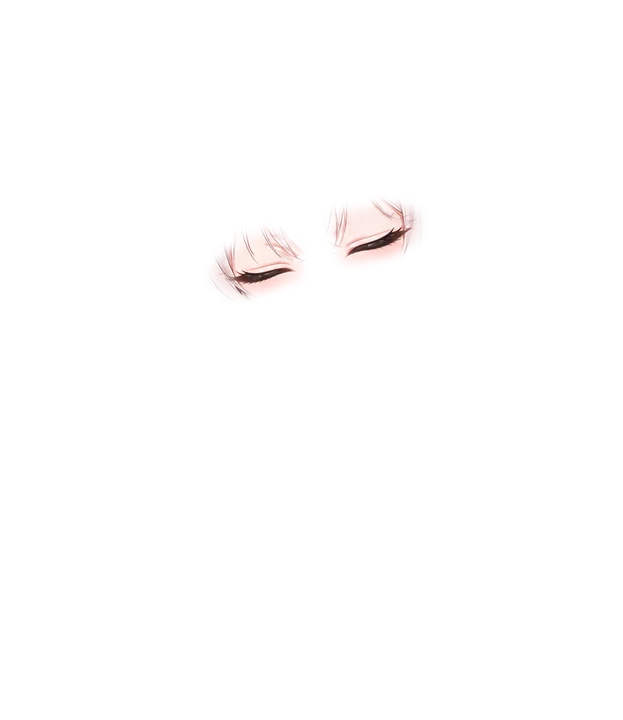
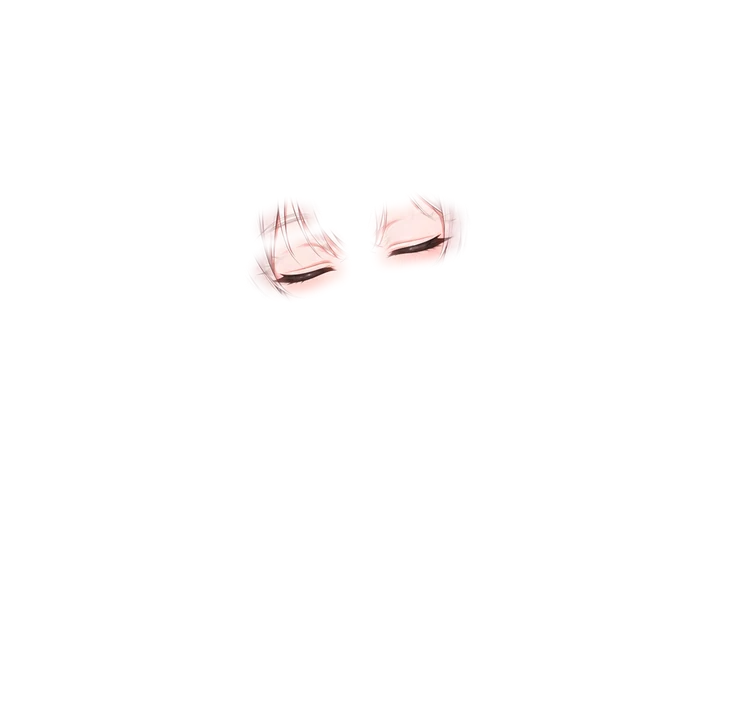
fix(web): give 年糕's host and lady outfits graceful poses
Both used the paws-up pose from the video-host design (gripping the top of a
window), which looked childish as a companion. The host now waves lightly by
her shoulder with her other hand on the headset mic; the lady rests the back
of her fingers on her cheek with her other arm folded at the waist. Picked
from three or four candidates each. Blink and talk frames were regenerated
and aligned the same way as before; the mouth stays uncovered.

Changed region(s): [[0.3355, 0.275, 0.488, 0.4278], [0.488, 0.275, 0.6709, 0.3667]]

diff --git a/docs/product/preset-roles.md b/docs/product/preset-roles.md
@@ -71,12 +71,13 @@
 
 | 装扮 | key | 图片 | 来源 |
 |---|---|---|---|
-| 主播装（默认） | `host` | `public/roles/niangao-host*.webp` | 设定稿「墨婉 / MOWA」v2 第 3 轮主播装定稿的「微笑」状态，闭眼和张嘴帧是设定稿里现成对齐好的 |
-| 大小姐 | `lady` | `niangao-lady*.webp` | 以第 2 轮 V1 原装半身图为底，图生图改成闭嘴的笑，再出闭眼、张嘴 |
+| 主播装（默认） | `host` | `public/roles/niangao-host*.webp` | 以设定稿「墨婉 / MOWA」v2 第 3 轮主播装为参考重新生成：右手在肩旁轻轻挥手、左手扶耳麦，再出闭眼、张嘴 |
+| 大小姐 | `lady` | `niangao-lady*.webp` | 以第 2 轮 V1 原装半身图和大小姐版三视图为参考：右手手背轻贴脸颊、左手托肘，闭嘴的笑，再出闭眼、张嘴 |
 | 银发卫衣 | `silver` | `niangao-silver*.webp` | 照「黑银发色初版」三视图和海报，生成同样双手猫爪的半身，再出闭眼、张嘴 |
 | Q 版 | `chibi` | `niangao-chibi*.webp` | 照「Q 版设定」A、C 两张生成，做法同上 |
 | 橘猫卫衣 | `classic` | `niangao*.webp`（没有后缀的那组） | 原来的形象：橘发、橙色卫衣、拿奶茶。原图 `role-candidates/v2/niangao_a.webp` 露腰、领口低，改成了拉好拉链的卫衣，底图在 `role-candidates/v2/niangao_a_fixed.webp` |
 
+- 最早四套都是“双手猫爪扒窗沿”的姿势，那是给视频主持人探头用的。放进网页后显得幼、没气质，2026-11-26 把主播装和大小姐换成了上面的姿势（候选和选择见设计目录的 `姿势候选-对照.jpg`）。银发卫衣和 Q 版还是猫爪。
 - 新装扮的原图、提示词和生成记录在设计目录 `06-角色设定/网页端-年糕装扮/`（不进仓库）。闭眼、张嘴的图先用 `v2-重设计/工具/composite.py` 对齐到底图、只把眼睛和嘴贴回去，再用 Vision 抠图，导出时只留真正变了的那一块做透明补丁，和 `scripts/role-frames.py` 一样。
 - 人设没变，还是自称舒适之神的橘猫；四套猫娘装扮是银发灰虎斑，和“橘猫”的说法对不上。要不要改人设由产品决定，改的话一起改 `CompanionPresetRoles` 的提示词。
 - 橘猫卫衣那组是半身立绘，脸比玩偶图靠下，补丁范围要按脸的位置调，眼睛约 (0.40, 0.20, 0.71, 0.30)，嘴约 (0.52, 0.28, 0.67, 0.335)。
